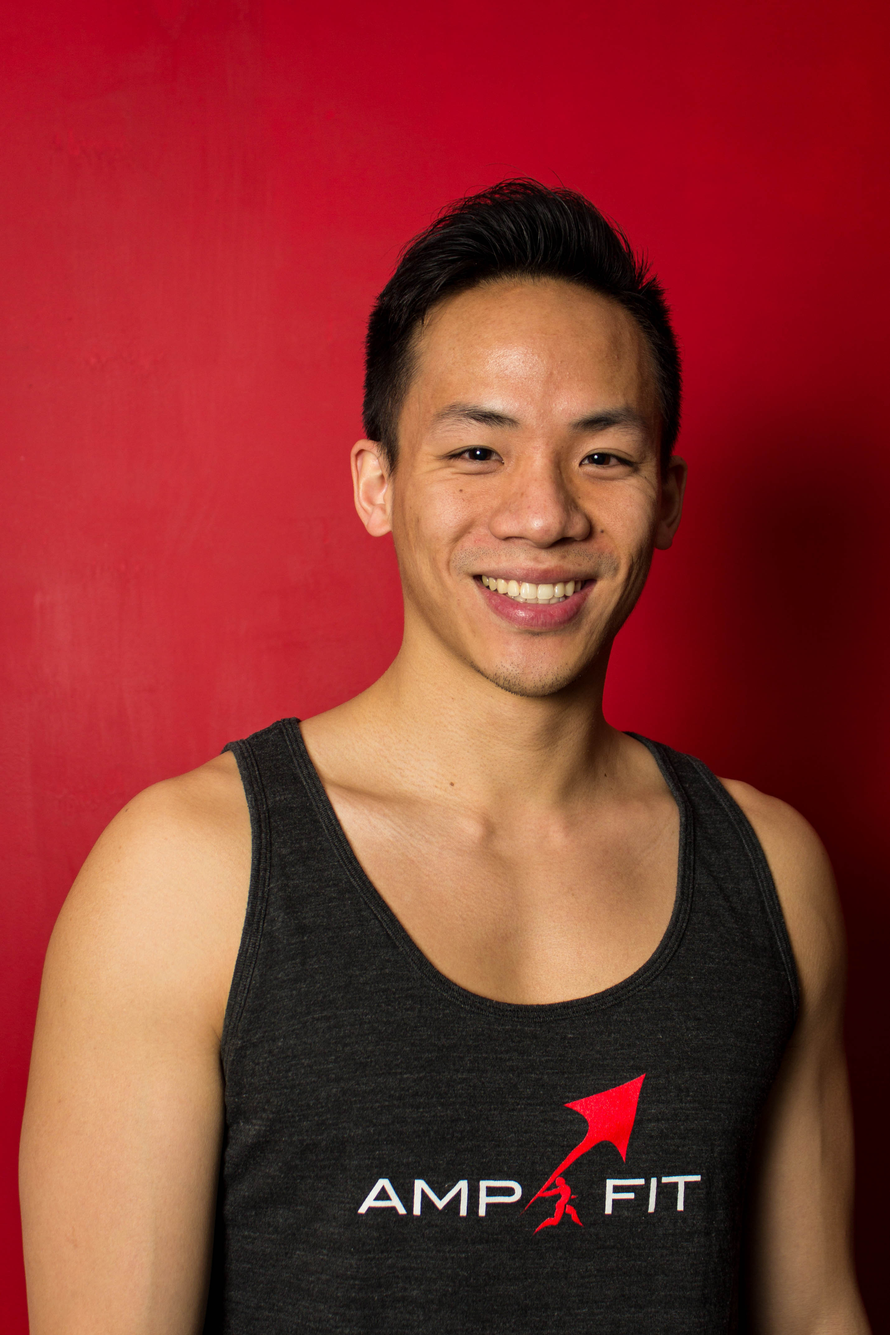
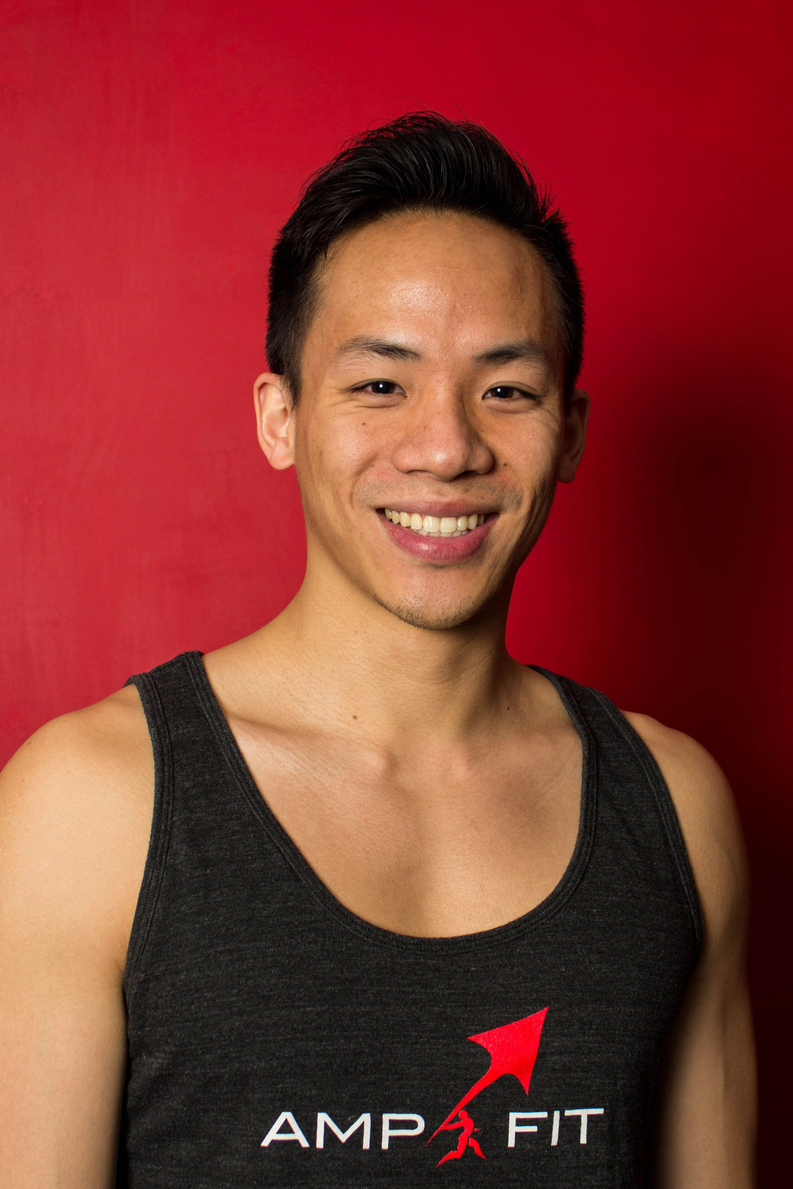
Removed old images and compressed headshot pics. Changed modal layout.

diff --git a/index.html b/index.html
@@ -44,7 +44,7 @@
                     <img class="img-responsive center-block" src="img/amp/home_picture_1.jpg" alt="First slide" width="auto">
                 </div>
                 <div class="container">
-                    <div class="carousel-caption" style="padding-bottom: 150px;">
+                    <div class="carousel-caption" style="padding-bottom: 8%;">
                         <h1 class="AMPLogo">AMP FIT</h1>
                         <p>
                             <a class="btn btn-lg btn-danger" href="#" role="button"> Sign up today</a>
@@ -57,15 +57,13 @@
                     <img class="img-responsive center-block" src="img/amp/home_picture_2.jpg" alt="Second slide">
                 </div>
                 <div class="container">
-                    <div class="carousel-caption">
-                        <div class="carousel-caption-2">
-                            <h1 class="AMPLogo">AMP FIT Promotional Video</h1>
-                        	<p>
-                        		<button type="button" class="btn btn-lg btn-danger" data-toggle="modal" data-target="#myModal"">
-									Click here to watch
-								</button>
-                        	</p>
-                        </div>
+                    <div class="carousel-caption"  style="padding-bottom: 8%;">
+                        <h1 class="AMPLogo">AMP FIT Promotional Video</h1>
+                       	<p>
+                       		<button type="button" class="btn btn-lg btn-danger" data-toggle="modal" data-target="#myModal"">
+								Click here to watch
+							</button>
+                       	</p>
                     </div>
                 </div>
             </div>
@@ -74,11 +72,10 @@
                     <img class="img-responsive center-block" src="img/amp/home_picture_3.jpg" alt="Third slide">
                 </div>
                 <div class="container">
-                    <div class="carousel-caption">
-                        <h1>One more for good measure.</h1>
-                        <p>Cras justo odio, dapibus ac facilisis in, egestas eget quam. Donec id elit non mi porta gravida at eget metus. Nullam id dolor id nibh ultricies vehicula ut id elit.</p>
+                    <div class="carousel-caption" style="padding-bottom: 8%;">
+                        <h1>Check out our facility</h1>
                         <p>
-                            <a class="btn btn-lg btn-primary" href="#" role="button">Browse gallery</a>
+                            <a class="btn btn-lg btn-danger" href="#" role="button">Browse gallery</a>
                         </p>
                     </div>
                 </div>

diff --git a/testimonials/index.html b/testimonials/index.html
@@ -246,27 +246,24 @@
 	<div class="modal fade" id="myModal" tabindex="-1" role="dialog" aria-labelledby="myModalLabel" aria-hidden="true">
 		<div class="modal-dialog">
 			<div class="modal-content">
-				<div class="modal-header">
+				<div class="modal-header" style="color:white; background-color: black; border-bottom-color:red">
 					<button type="button" class="close" data-dismiss="modal"
 						aria-label="Close">
 						<span aria-hidden="true">&times;</span>
 					</button>
 					<h4 id="testimonial_title" class="modal-title" style="text-align: center;"></h4>
 				</div>
-				<div class="modal-body">
-                     <div class="row featurette">
-          	          <div class="col-md-6">
-                           <img id="testimonial_img" style="height: 400px;">
-                       </div>
-                       <div class="col-md-6">
-                           <p id="testimonial" style="text-align: left; text-indent: 20px; margin-left: 10px"></p>
-                   </div>
-                  
-    			</div>
-			 </div>
-             <div class="modal-footer">
-             </div>
-		</div>
+				<div class="modal-body" style="background-color: black">
+					<div class="wrapper">
+						  <img id="testimonial_img">
+						  <div class="overlay">
+						    <p id="testimonial" style=" text-indent: 20px; margin-left: 10px"></p>
+						  </div>
+					</div>
+				</div>
+	            <div class="modal-footer" style="background-color: black; border-top-color:red">
+	            </div>
+			</div>
 	</div>
 
 

diff --git a/css/index.min.css b/css/index.min.css
@@ -40,3 +40,28 @@ a {
 .featurette-divider {
 	margin:40px 0;
 }
+
+.wrapper {
+  display: inline-block;
+  margin-top: 25px;
+  position: relative;
+}
+
+.wrapper img {
+  display: block;
+  max-width:100%;
+/*   opacity: 0.3; */
+/*   filter: alpha(opacity=30); For IE8 and earlier */
+}
+
+.wrapper .overlay {
+  position: absolute;
+  margin-left: 50%;
+  margin-right: auto;
+  top:0;
+  left:0;
+  width:50%;
+  height:100%;
+  background-color: rgba(0,0,0,0.25);
+  color:white;
+}
